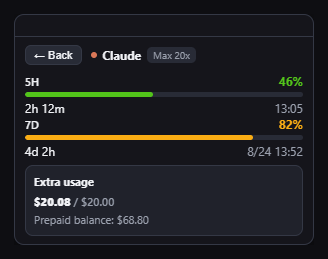
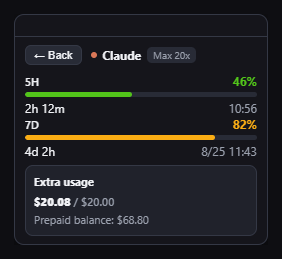
Narrow normal mode to the compact width
Normal mode sat at 300px while compact with all four providers on measures 254,
so the widget jumped wider whenever it left the dense layouts. Normal is 254 now
too, which is the compact row's own arithmetic (4x56 slots + 3x4 gaps + 16
padding + 2 border), so the window keeps one width and only its height changes
across densities.

Audited every view at the new width - normal, settings and detail - for elements
whose content is wider than their box: none clip or wrap.

diff --git a/src/renderer/styles.css b/src/renderer/styles.css
@@ -29,9 +29,11 @@ html, body, #root {
 }
 
 .app {
-  /* Fixed by default — cards are designed for this width. Compact mode opts into
-     shrinking to whatever its row actually needs (see .app-compact). */
-  width: 300px;
+  /* Fixed by default — cards are designed for this width. 254px is what compact
+     mode measures with all four providers on (4×56 slots + 3×4 gaps + 16 padding
+     + 2 border), so the widget keeps one width across densities. Compact opts
+     into shrinking below it (see .app-compact). */
+  width: 254px;
   background: var(--bg);
   border: 1px solid var(--border);
   border-radius: 10px;
@@ -251,5 +253,5 @@ html, body, #root {
 
 /* Compact mode sizes the window to its content: the row is as wide as the
    enabled slots, floored by the title bar's own width. */
-.app.app-compact { width: max-content; max-width: 300px; }
+.app.app-compact { width: max-content; max-width: 254px; }
 .app.app-compact .card-note { width: 120px; white-space: normal; }

diff --git a/src/main/index.ts b/src/main/index.ts
@@ -13,7 +13,7 @@ let tray: Tray | null = null
 
 // Width is measured from content like height. Normal mode pins itself to 300 in
 // CSS; compact mode reports whatever its row needs, floored by the title bar.
-const WIDGET_W = 300
+const WIDGET_W = 254
 const WIDGET_MIN_W = 120
 const WIDGET_MAX_W = 420
 // Low enough for compact mode (one row, possibly a single provider). Normal mode
